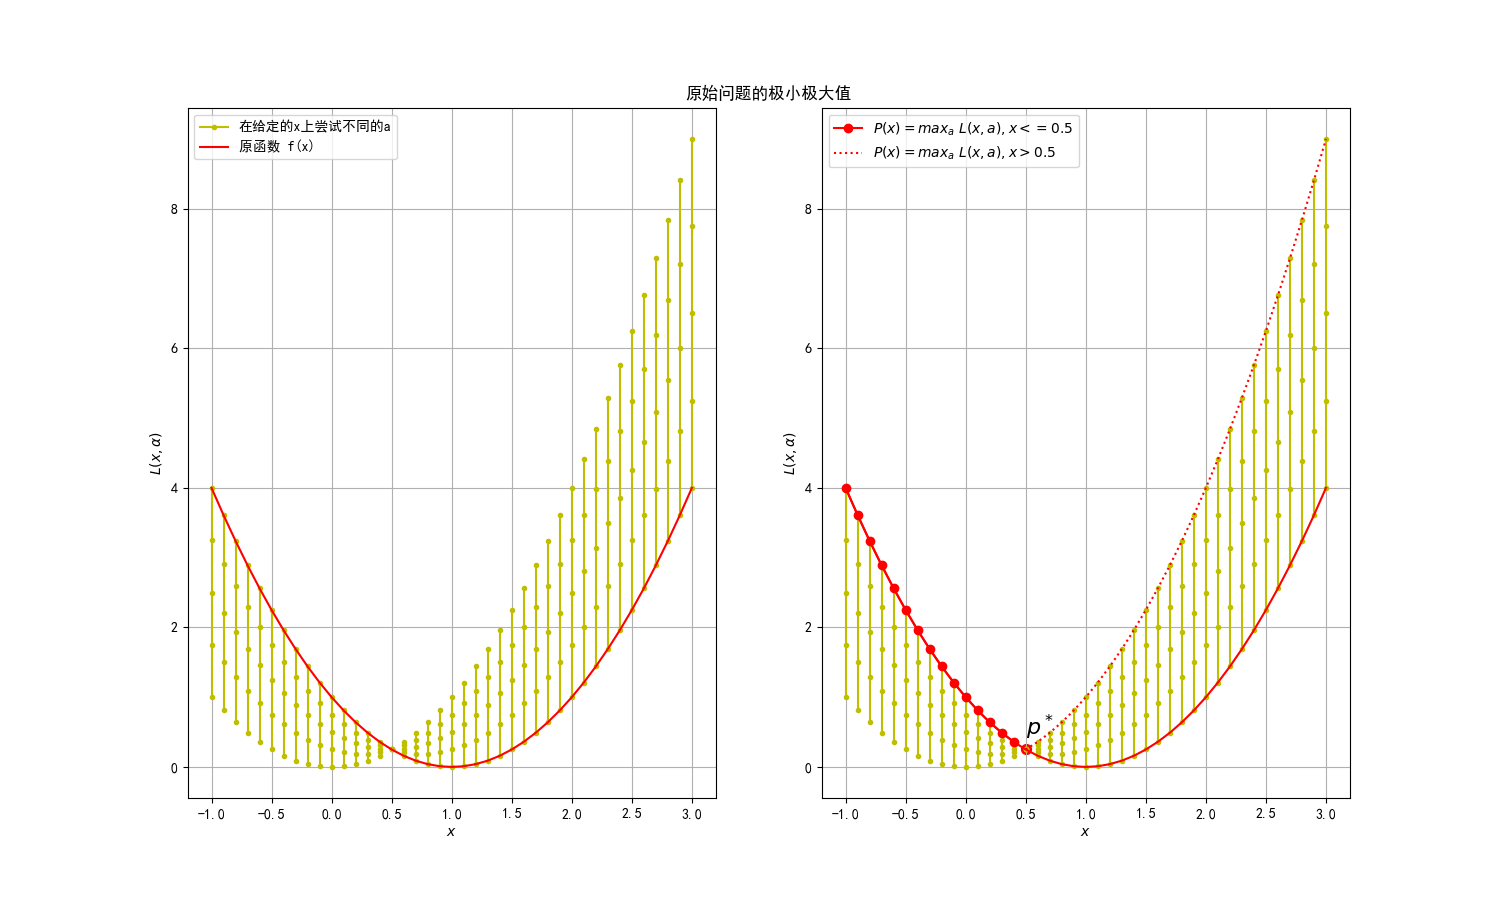
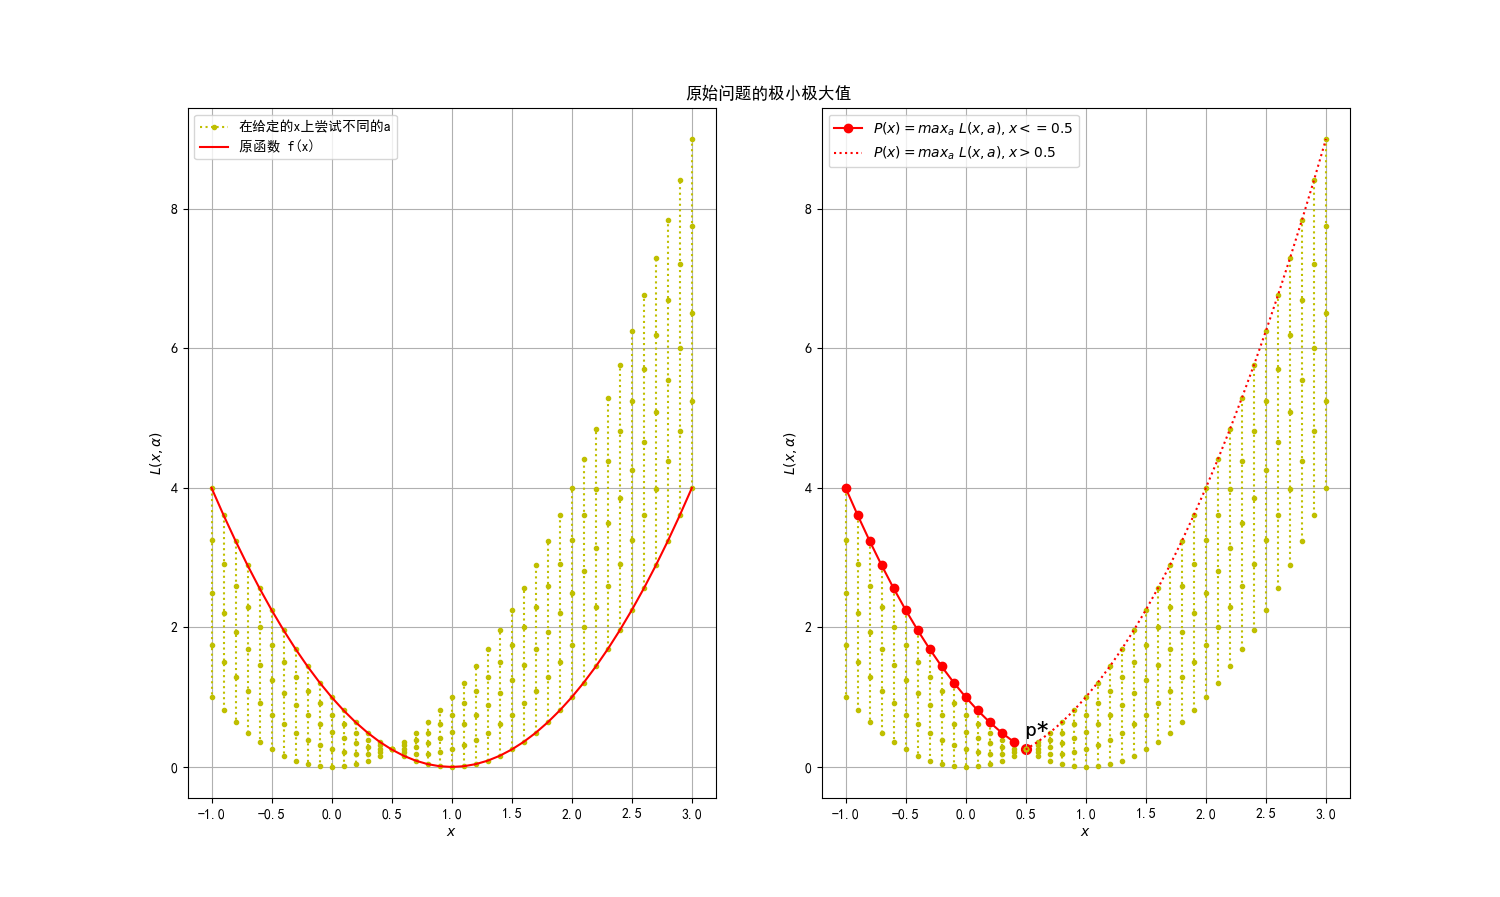
uoouuuuoiu

diff --git a/基础教程/A4-经典机器学习算法（更新中）/第5步 基于核的算法/src/4-5-1.py b/基础教程/A4-经典机器学习算法（更新中）/第5步 基于核的算法/src/4-5-1.py
@@ -3,7 +3,7 @@ import numpy as np
 import matplotlib.pyplot as plt
 import matplotlib as mpl
 
-def draw_left_X_L(ax):
+def draw_left_X_L(ax, flag='left'):
     num_alpha = 5
     num_x = 41
     L = []
@@ -17,18 +17,20 @@ def draw_left_X_L(ax):
     for x in X:
         l_xa = x*x - 2*x + 1 + A*(x-0.5)
         # 横坐标是 x, 纵坐标是函数值 L(x,a)，一条竖线
-        line1, = ax.plot([x]*5, l_xa, color='y', marker='.')
+        line1, = ax.plot([x]*5, l_xa, color='y', marker='.', linestyle=':')
         L.append(l_xa)
 
-    # 绘制原函数 f(x)
-    Y = X**2 - 2*X + 1
-    line2, = ax.plot(X, Y, color='r')
-    ax.legend(handles=[line1, line2], labels=[u'在给定的x上尝试不同的a', '原函数 f(x)'])
+    if (flag == 'left'):
+        # 绘制原函数 f(x)
+        Y = X**2 - 2*X + 1
+        line2, = ax.plot(X, Y, color='r')
+        ax.legend(handles=[line1, line2], labels=[u'在给定的x上尝试不同的a', '原函数 f(x)'])
+
     L = np.array(L)
     return L, X
 
 def draw_right_X_L(ax):
-    L, X = draw_left_X_L(ax)
+    L, X = draw_left_X_L(ax, 'right')
 
     print(L)
     # P(x) = max_a L(x,a)
@@ -40,7 +42,9 @@ def draw_right_X_L(ax):
     
     idx = np.argmin(max_a)
     print("x =",X[idx])
+    # x <= 0.5
     ax.plot(X[0:15], max_a[0:15], color='r', marker='o', label='$P(x)=max_a \ L(x,a), x <= 0.5$')
+    # x > 0.5
     ax.plot(X[15:], max_a[15:], color='r', linestyle=':', label='$P(x)=max_a \ L(x,a), x > 0.5$')
     ax.scatter(X[idx], min_x, s=50, color='r')
     ax.text(X[idx], min_x + 0.2, 'p*', fontsize=16)

diff --git a/基础教程/A4-经典机器学习算法（更新中）/第5步 基于核的算法/src/4-5-2.py b/基础教程/A4-经典机器学习算法（更新中）/第5步 基于核的算法/src/4-5-2.py
@@ -17,7 +17,7 @@ def draw_left_A_L(ax):
     for a in A:
         l_xa = X*X - 2*X + 1 + a*(X-0.5)
         # 横坐标是 a, 纵坐标是函数值 L(x,a)，一条竖线
-        line1, = ax.plot([a]*num_x, l_xa, marker='.', color='y')
+        line1, = ax.plot([a]*num_x, l_xa, marker='.', color='y', linestyle=':')
         L.append(l_xa)
 
     ax.legend(handles=[line1], labels=[u'在给定的a上尝试不同的x'])

diff --git a/基础教程/A4-经典机器学习算法（更新中）/第5步 基于核的算法/svm4-解决对偶问题.md b/基础教程/A4-经典机器学习算法（更新中）/第5步 基于核的算法/svm4-解决对偶问题.md
@@ -34,7 +34,7 @@ $$
 
 ### 为什么要学习对偶问题
 
-在很多情况下，我们会遇到很复杂的问题，求 $\underset{x}{\min}\ f(x)$ 不能不能象上面那样直接得到解，而是要通过得到对偶问题再来求解，而对偶问题的解与原始问题的解相同（或者非常接近）。
+在很多情况下，我们会遇到很复杂的问题，求 $\underset{x}{\min}\ f(x)$ 不能象上面那样直接得到解，而是要通过得到对偶问题再来求解，而对偶问题的解与原始问题的解相同（或者非常接近）。
 
 一般的步骤为：
 
@@ -42,19 +42,29 @@ $$
 2. 设定 $P(x)=\underset{\alpha;\alpha \ge 0}{\max} \ L(x,\alpha)$；
 3. 设定 $p^*=\underset{x}{\min}\ P(x)=\underset{x}{\min} [\underset{\alpha;\alpha \ge 0}{\max}\ L(x,\alpha)]$，此时 $p^*$ 是原始问题的解，但是不容易得到；
 4. 求 $D(\alpha) = \underset{x}{\min}\ L(x,\alpha)$；
-5. 求 $d^*=\underset{\alpha;\alpha \ge 0}{\max}\ D(\alpha)=\underset{\alpha;\alpha \ge 0}{\max} [\underset{x}{\min}\ L(x,\alpha)]$，此时 $d^*$ 是对偶问题的解，并且 $d^* \le p^*$。
+5. 求 $d^*=\underset{\alpha;\alpha \ge 0}{\max}\ D(\alpha)=\underset{\alpha;\alpha \ge 0}{\max} [\underset{x}{\min}\ L(x,\alpha)]$，此时 $d^*$ 是对偶问题的解且较容易得到，并且 $d^* \le p^*$。
 
-由于前者 $p^*$ 是通过极小极大得到的，而后者 $d^*$ 是通过极大极小得到的，成为镜像，所以叫做对偶问题。
+由于原始问题的 $p^*$ 是通过极小极大得到的，而后者 $d^*$ 是通过极大极小得到的，成为镜像，所以叫做对偶问题。
 
 为什么要指定 $\alpha \ge 0$ 呢？因为这是要简化问题，本来 $g(x) \le 0$，如果 $\alpha$ 可正可负的话，问题就会变得比较复杂。
 
-下面我们会用实例证明一下为什么 $d^* \le p^*$。
+下面我们会用实例说明一下原始问题和对偶问题的关系，以及为什么 $d^* \le p^*$。
 
 ### 求原始问题的极小极大值
 
-首先要证明 $p^*$ 是原始问题的解，即结果同 5.4.3。
+令 $P(x)$ 为 $L(x,\alpha)$ 关于 $\alpha$ 的极大值：
 
-先看看 $P(x)$ 是怎么得到的：固定一个 $x$ 值（假设为-1），用一系列的 $\alpha$ 值来计算 $L(-1,\alpha)$，就得到 $P(-1)$；然后再固定 $x$=-0.5，再用一系列的 $\alpha$ 值来计算 $L(-0.5,\alpha)$，就得到 $P(-0.5)$；...... 最后把这些 $P(-1)$,$P(-0.5)$,$P(0)$,$P(0.5)$......拼起来就是 $P(x)$。
+$$
+P(x)=\underset{\alpha;\alpha \ge 0}{\max} \ L(x,\alpha) \tag{5.4.4}
+$$
+
+式 5.4.4 的含义是，虽然 $L$ 有两个参数 $x, \alpha$，但是我们先在指定的若干 $x$ 上遍历 $\alpha$，确定当 $\alpha$ 为何值时 $L$ 的值最大。
+
+得到 $P(x)$ 的具体步骤：
+1. 固定一个 $x$ 值（假设为-1），用一系列的 $\alpha$ 值来计算 $L(-1,\alpha)$，就得到 $P(-1)$；
+2. 然后再固定 $x$=-0.5，再用一系列的 $\alpha$ 值来计算 $L(-0.5,\alpha)$，就得到 $P(-0.5)$；
+3. 在一定范围内重复以上过程...... 
+4. 最后把这些 $P(-1)$,$P(-0.5)$,$P(0)$,$P(0.5)$......拼成一条曲线就是 $P(x)$，曲线的横坐标是 $x$，纵坐标是 $L$ 的最大值。
 
 代码如下：
 
@@ -74,28 +84,33 @@ def draw_left_X_L(ax):
         l_xa = x*x - 2*x + 1 + A*(x-0.5)
         # 横坐标是 x, 纵坐标是函数值 L(x,a)，一条竖线
         line1, = ax.plot([x]*5, l_xa, color='y', marker='.')
+        # 保存所有竖线的坐标点到一个列表
         L.append(l_xa)
 
     # 绘制原函数 f(x)
     Y = X**2 - 2*X + 1
     line2, = ax.plot(X, Y, color='r')
     ax.legend(handles=[line1, line2], labels=[u'在给定的x上尝试不同的a', '原函数 f(x)'])
+
+    # 列表转换成矩阵，便于后面计算极小极大值
     L = np.array(L)
     return L, X
 ```
 为了简单起见，由于我们事先知道 $x=0.5,\alpha=1$ 是该问题的解，所以指定 $x$ 的遍历范围是 [-1,3]，$\alpha$ 的遍历范围是 [0,2]。
 
-这段代码绘制出图 5.4.1 中的左子图，横坐标是 $x$，纵坐标是函数 $L(x,\alpha)$，每一条竖线都表示一个指定的 $x$ 上 尝试的 5 个 $\alpha$ 值对应的 $L(x,\alpha)$ 值，这里 $x$ 是常数，$\alpha$ 是变量。红色曲线是原函数 $f(x)$。
+这段代码绘制出图 5.4.1 中的左子图，横坐标是 $x$，纵坐标是函数 $L(x,\alpha)$，**每一条竖线**都表示在一个指定的 $x$ 上尝试的 5 个 $\alpha$ 值对应的 $L(x,\alpha)$ 值，此时 $x$ 是常数，$\alpha$ 是变量。
+
+红色曲线是原函数 $f(x)$。
 
 <img src="./images/5-4-1.png" />
 
 <center>图 5.4.1 原始问题的极小极大值</center>
 
-下面要获得 $P(x)=\underset{\alpha}{\max} \ L(x,\alpha)$，观察左子图，就是要在 5 个不同的 $L$ 的数值中取最大的那个值。当然还可以取更多或更密集的 $\alpha$ 值来做试验。
+下面要获得 $P(x)$，观察左子图，就是要在每条竖线上的 5 个不同 $\alpha$ 的点中取最大的那个值，就是 $\underset{\alpha}{\max} L$。当然还可以取更多或更密集的 $\alpha$ 值来做试验。
 
-取最大值用矩阵计算比较方便，所以我们把上面代码中的 L 显示在表 5.4.1 中（选取了其中的 9 行数据），并在最后一列得到当前行中的最大值。
+取最大值用矩阵计算比较方便，所以我们把上面代码中的 L 显示在表 5.4.1 中（选取了其中的 9 行数据），并在最后一列得到当前行中的最大值。用黑体显示了当前行中的最大值，斜体表示取出来的结果（最后一列）。
 
-表 5.4.1 
+表 5.4.1 不同的 $\alpha$ 在给定的 $x$ 上的 $L$ 值
 
 ||$\alpha$=0|$\alpha$=0.5|$\alpha$=1|$\alpha$=1.5|$\alpha$=2|$P(x)=\underset{\alpha}{\max} \ L(x,\alpha)$|
 |--|--|--|--|--|--|--|
@@ -115,9 +130,15 @@ def draw_left_X_L(ax):
 # P(x) = max_a L(x,a)
 max_a = np.max(L, axis=1)
 ```
-在表 5.4.1 中，用黑体显示了当前行中的最大值，斜体表示取出来的结果（最后一列）。
 
-再看图 5.4.1 中的右侧子图：
+我们把得到的 max_a 值（一个列表）用下面的代码绘制在图 5.4.1 中的右侧子图中，因为 x 取值范围是 start=-1，stop=3，step=41，所以序号 15 正好在 x=0.5 的点上：
+
+```Python
+# x <= 0.5
+ax.plot(X[0:15], max_a[0:15], color='r', marker='o', label='$P(x)=max_a \ L(x,a), x <= 0.5$')
+# x > 0.5
+ax.plot(X[15:], max_a[15:], color='r', linestyle=':', label='$P(x)=max_a \ L(x,a), x > 0.5$')
+```
 
 - 其中的红色带圆点的曲线，就是表 5.4.1 中的最大值，可以看到它完全与原函数重合，但是它位于 $x \le 0.5$的区域。
 - 红色虚线的曲线，也是由表 5.4.1 中的最大值所构成，但是它位于 $x \gt 0.5$ 的区域。它超过了原函数的值域，随着 $\alpha$ 值的增加，会越来越大。
@@ -131,16 +152,16 @@ P(x)=\underset{\alpha}{\max} \ L(x,\alpha)=\underset{\alpha}{\max} [f(x)+\alpha 
     \\\\
     +\infin, \quad x \in 限定区域外
 \end{cases}
-\tag{5.4.4}
+\tag{5.4.5}
 $$
 
-- 当样本点 $x$ 满足 $g(x)$ 的要求时，因为 $g(x) \le 0, \alpha \le 0$，所以 $\alpha g(x) \le 0$，则 $L(x,\alpha) \le f(x)+\alpha g(x)$。所以$P(x)$ 的值不可能超过原函数，最大值等于原函数 $f(x)$。
+- 当样本点 $x$ 满足 $g(x)$ 的要求时，因为 $g(x) \le 0, \alpha \le 0$，所以 $\alpha g(x) \le 0$，则 $L(x,\alpha) \le f(x)+\alpha g(x)$。所以$L(x,\alpha)$ 的值不可能超过原函数，最大值等于原函数 $f(x)$。
 - 当样本点不满足 $g(x)$ 的要求时，随着乘子 $\alpha$ 的值增加，$L(x,\alpha)$ 可以越来越大，这样$P(x)$ 的值可以趋近于无穷大，没有限制。
 
 现在确定了 $P(x)$ 的函数形态，对 $P(x)$ 取关于 $x$ 的极小值，结果记为 $p^*$：
 
 $$
-p^* = \underset{x}{\min} \ P(x)=  \underset{x}{\min} \ [\underset{\alpha}{\max} \ L(x,\alpha)] = \underset{x}{\min} \ f(x)
+p^* = \underset{x}{\min} \ P(x)
 \tag{5.4.6}
 $$
 
@@ -158,6 +179,14 @@ p* = min_x P(x) = 0.25
 x = 0.5
 ```
 
+可以看到 $p^*$ 的结果和式 5.4.3 的结果一致，所以有一般性推论：
+
+
+$$
+p^* = \underset{x}{\min} \ P(x)=  \underset{x}{\min} \ [\underset{\alpha}{\max} \ L(x,\alpha)] = \underset{x}{\min} \ f(x)
+\tag{5.4.7}
+$$
+
 这种针对不同参数先求最大再求最小的方法，也被称为广义拉格朗日函数的**极小极大**问题。
 
 
@@ -168,10 +197,10 @@ x = 0.5
 令 $D(\alpha)$ 为 $L(x,\alpha)$ 关于 $x$ 的最小值：
 
 $$
-D(\alpha)= \underset{x}{\min} \ L(x,\alpha) \tag{5.4.7}
+D(\alpha)= \underset{x}{\min} \ L(x,\alpha) \tag{5.4.8}
 $$
 
-为了求得式 5.4.7 中的值，我们先给出一个固定的 $\alpha$ 值，在上面计算所有可能的 $x$ 值，并绘制出来。
+为了求得式 5.4.8 中的值，我们先给出一个固定的 $\alpha$ 值，在上面计算所有可能的 $x$ 值，并绘制出图形来帮助理解：
 
 ``` Python
 def draw_left_A_L(ax):
@@ -189,6 +218,7 @@ def draw_left_A_L(ax):
         l_xa = X*X - 2*X + 1 + a*(X-0.5)
         # 横坐标是 a, 纵坐标是函数值 L(x,a)，一条竖线
         line1, = ax.plot([a]*num_x, l_xa, marker='.', color='y')
+        # 保存竖线坐标值到列表
         L.append(l_xa)
 
     ax.legend(handles=[line1], labels=[u'在给定的a上尝试不同的x'])
@@ -199,11 +229,11 @@ def draw_left_A_L(ax):
 
 <img src="./images/5-4-2.png" />
 
-<center>图 5.4.2 对偶问题</center>
+<center>图 5.4.2 对偶问题的极大极小值</center>
 
-与左子图对应的数据见表 5.4.2，为了节省篇幅，表中只保留了关键数据，不影响准确性。
+与左子图对应的数据见表 5.4.2，为了节省篇幅，表中只保留了关键数据，不影响准确性。请注意，由于是对偶问题，先后顺序不同，所以表 5.4.2 中的行列定义与表 5.4.1 正好相反。
 
-表 5.4.2
+表 5.4.2 不同的 $x$ 在给定的 $\alpha$ 上的 $L$ 值
 
 ||x=0|x=0.25|x=0.5|x=0.75|x=1|x=1.25|x=1.5|x=1.75|x=2|$D(\alpha)= \underset{x}{\min} \ L(x,\alpha)$|
 |-------|----|--------|------|--------|------|--------|------|------|---|--|
@@ -213,15 +243,32 @@ def draw_left_A_L(ax):
 |$\alpha$=2.0|**0**|0.0625|0.25|0.5625|1| 1.5625 | 2.25 |3.0625|4|*0*|
 |$\alpha$=3.0|**-0.5**|-0.1875|0.25|0.8125|1.5|2.3125|3.25|4.3125|5.5|*-0.5*|
 
-然后获得每条竖线上（$\alpha$）的 $L$ 的最小值，可以用 min_x=np.min(L, axis=1) 获得，得到的结果放在表 5.4.2 的最后一列。
+然后获得每条竖线上（$\alpha$）的 $L$ 的最小值，代码如下：
 
-再求 $D(\alpha)$ 关于 $\alpha$ 的最大值，并记为 $d^*$：
+``` Python
+# D(a) = min_x L(x,a)
+min_x=np.min(L, axis=1)
+```
+得到的结果放在表 5.4.2 的最后一列，并在图 5.4.2 的右子图中用红色线绘出：
+
+```Python
+# draw D(a)
+ax.plot(A, min_x, label='$D(a) = min_x \ L(x,a)$', color='r', marker='o')
+```
+
+下一步求 $D(\alpha)$ 关于 $\alpha$ 的最大值，并记为 $d^*$：
 
 $$
-d^*=\underset{\alpha}{\max} \ D(\alpha)= \underset{\alpha}{\max} \ [\underset{x}{\min} \ L(x,\alpha)] \tag{5.4.8}
+d^*=\underset{\alpha}{\max} \ D(\alpha) \tag{5.4.9}
 $$
 
-用代码 max_a = np.max(min_x) 即可获得。最后的打印输出是：
+用下面的代码即可获得：
+
+```Python
+max_a = np.max(min_x)
+``` 
+
+最后的打印输出是：
 
 ```
 D(a) = min_x L(x,a) = [-0.75 -0.3125 0 0.1875 0.25 0.1875 0 -0.25 -0.5]
@@ -229,52 +276,47 @@ d* = max_a D(a) = 0.25
 a = 1.0
 ```
 
-
 式 5.4.8 称为广义拉格朗日函数的**极大极小**问题。
 
-
-
-
-
-
-
-
+到此为止，我们得到了以下值：$\alpha=1, p^*=d^*=0.25, x=0.5$，与式 5.4.3 的结果完全相同。
 
 
 ### 原始问题和对偶问题的关系
 
-<img src="./images/5.4.1.png" />
+<img src="./images/5-4-3.png" />
 
 <center>图 5.4.1 对偶问题</center>
 
-很直接地，如图 5.4.1 的左子图所示：
-- 在函数 $L(w,b,\alpha)$ 内部，关于一部分参数的最小值 $D(\alpha)$（式 5.4.5），一定处于该函数解空间内的底部区域；
-- 相反，关于另一部分参数的最大值 $P(w,b)$（式 5.4.3），一定处于该函数解空间内的顶部区域。
+很直接地，如图 5.4.3 的左子图所示：
+- 在函数 $L(x,\alpha)$ 内部，关于一部分参数的最小值 $D(\alpha)$（式 5.4.8），一定处于该函数解空间内的底部区域；
+- 相反，关于另一部分参数的最大值 $P(x)$（式 5.4.4），一定处于该函数解空间内的顶部区域。
 
-为什么 $D(\alpha)$ 是一个区域而不是一个点呢？因为 $D(\alpha)= \underset{w,b}{\min} \ L(w,b,\alpha)$ 只确定了 $w,b$，而没有确定 $\alpha$，即 $\alpha$ 是个变量，$\alpha$ 取不同的值，$D(\alpha)$ 也会跟着变化。所以 $D(\alpha)$ 是一个区域。同理可知 $P(w,b)$ 也是一个区域。图中用虚线圆形来表示，只是个示意图。
+为什么 $D(\alpha)$ 是一个区域而不是一个点呢？因为 $D(\alpha)= \underset{x}{\min} \ L(x,\alpha)$ 只确定了 $x$，而没有确定 $\alpha$，即 $\alpha$ 是个变量，$\alpha$ 取不同的值，$D(\alpha)$ 也会跟着变化，所以 $D(\alpha)$ 是一个区域。具体见图 5.4.2 的右子图（此例中是一条曲线）。
+
+同理可知 $P(x)$ 也是一个区域，具体见图 5.4.1 的右子图（此例中是一条曲线）。
 
 所以有：
 
 $$
-D(\alpha) = \underset{w,b}{\min} \ L(w,b,\alpha) \le L(w,b,\alpha) \le \underset{\alpha}{\max} L(w,b,\alpha)=P(w,b) \tag{5.4.7}
+D(\alpha) = \underset{x}{\min} \ L(x,\alpha) \le L(x,\alpha) \le \underset{\alpha}{\max} L(x,\alpha)=P(x) \tag{5.4.10}
 $$
 
 即：
 
 $$
-D(\alpha) \le P(w,b)  \tag{5.4.8}
+D(\alpha) \le P(w,b)  \tag{5.4.11}
 $$
 
 进一步可以推断，在最小值区域里面的最大值，肯定要小于在最大值区域里面的最小值：
 
 $$
-d^*=\underset{\alpha}{\max}\ D(\alpha) \le \underset{w,b}{\min} \ P(w,b)=p^* \tag{5.4.9}
+d^*=\underset{\alpha}{\max}\ D(\alpha) \le \underset{w,b}{\min} \ P(w,b)=p^* \tag{5.4.12}
 $$
 
 即：
 
 $$
-d^*=\underset{\alpha}{\max}[\underset{w,b}{\min} \ L(w,b,\alpha)] \le \underset{w,b}{\min}[\underset{\alpha}{\max} \ L(w,b,\alpha)]=p^*  \tag{5.4.10}
+d^* \le p^*  \tag{5.4.10}
 $$
 
 所以，我们求得了对偶问题的解 $d^*$，就相当于求得了原问题的解 $p^*$，而且前者比后者要更容易得到。
@@ -283,3 +325,4 @@ $$
 
 ### 思考与练习
 
+当然还可以取更多或更密集的 \alphaα 值来做试验。
